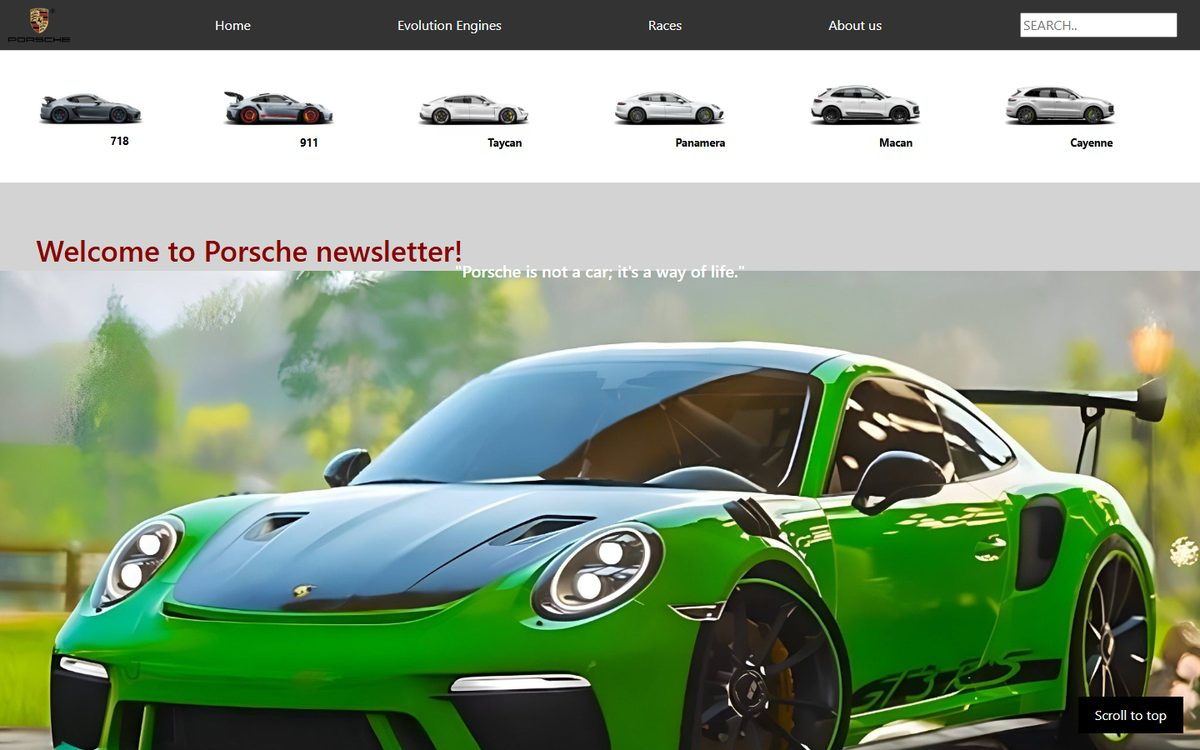
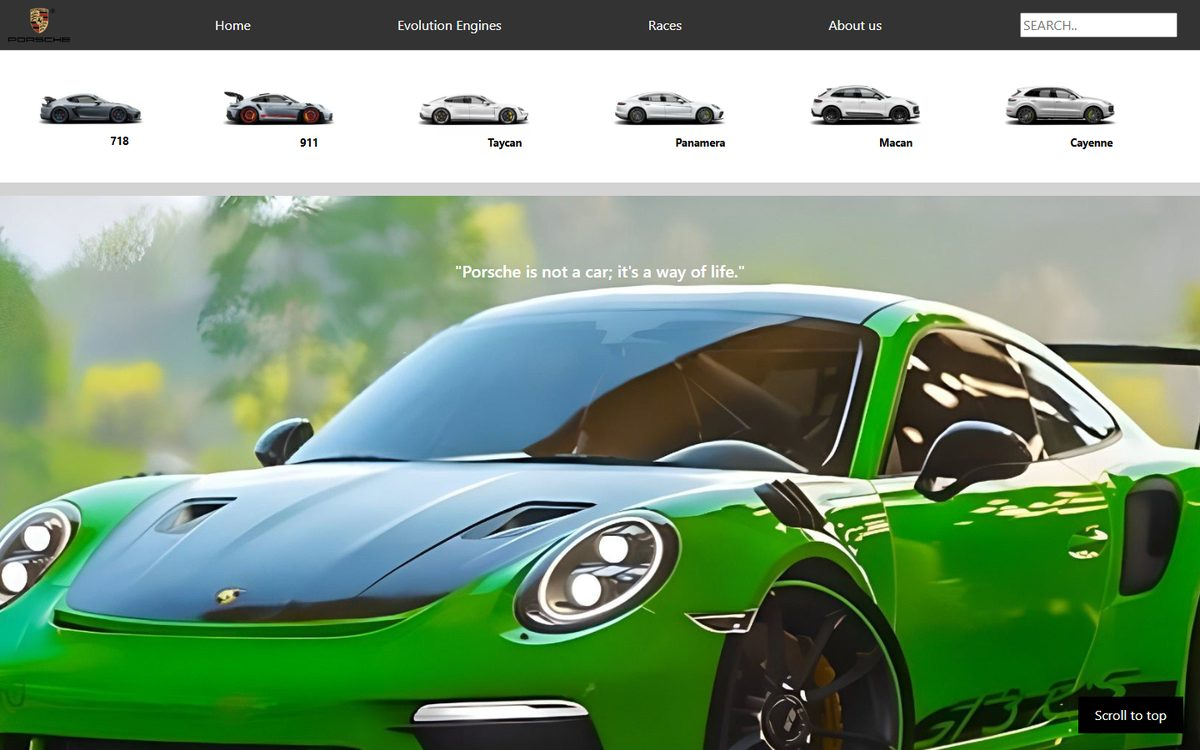
Fix homepage hero: remove overlapping heading and make slideshow fill the frame

diff --git a/index.html b/index.html
@@ -70,9 +70,6 @@
     </div>
   </header>
   <!--main content-->
-  <div class="word">
-    <h1>Welcome to Porsche newsletter!</h1>
-  </div>
   <section class="images">
     <img id="slideshow" src="images/slide1.jpg" alt="slide show images">
     <div id="indicator-container"></div>

diff --git a/index.css b/index.css
@@ -124,7 +124,7 @@ height: 100vh;
 #slideshow {
 max-width: 100%;
 max-height: 100%;
-object-fit: contain;
+object-fit: cover;
 display: block;
 margin-left: 0px;
 margin-right: 0px;
